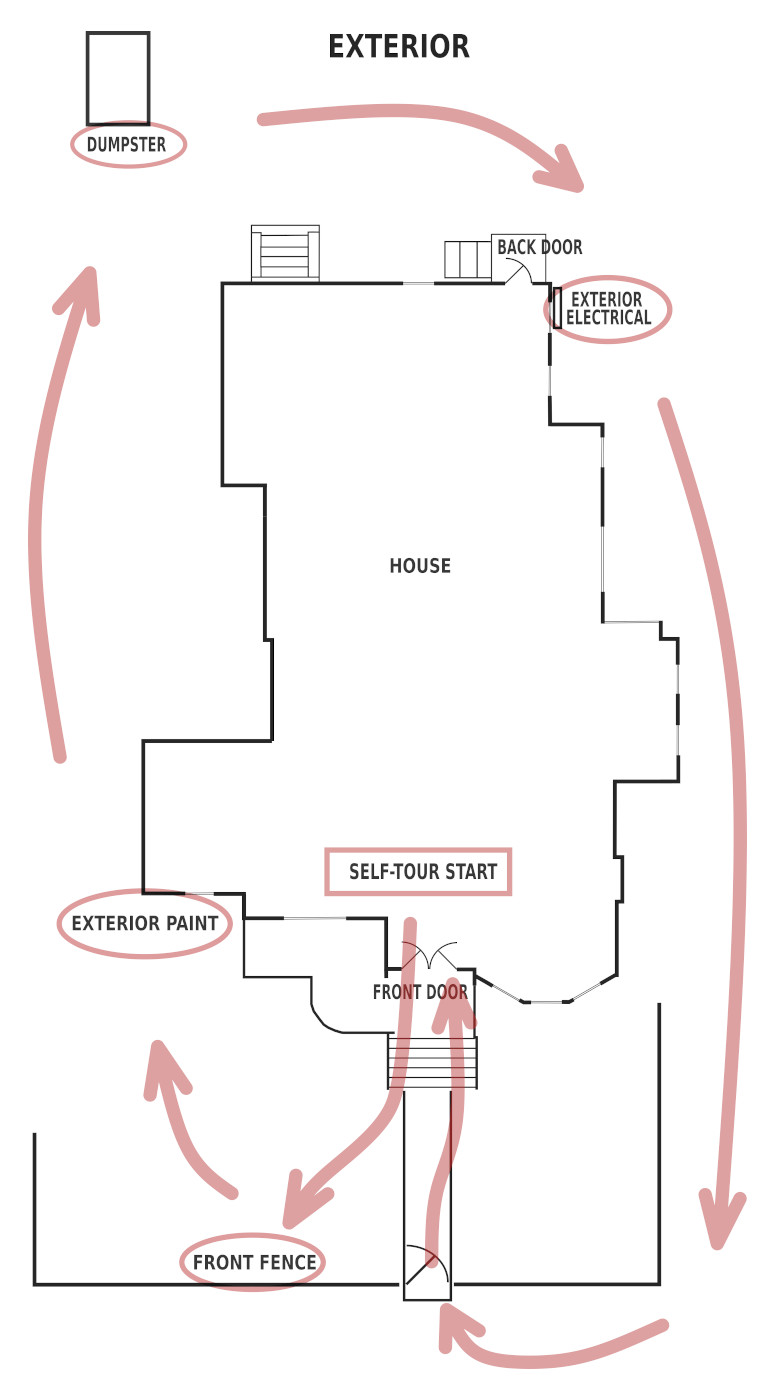
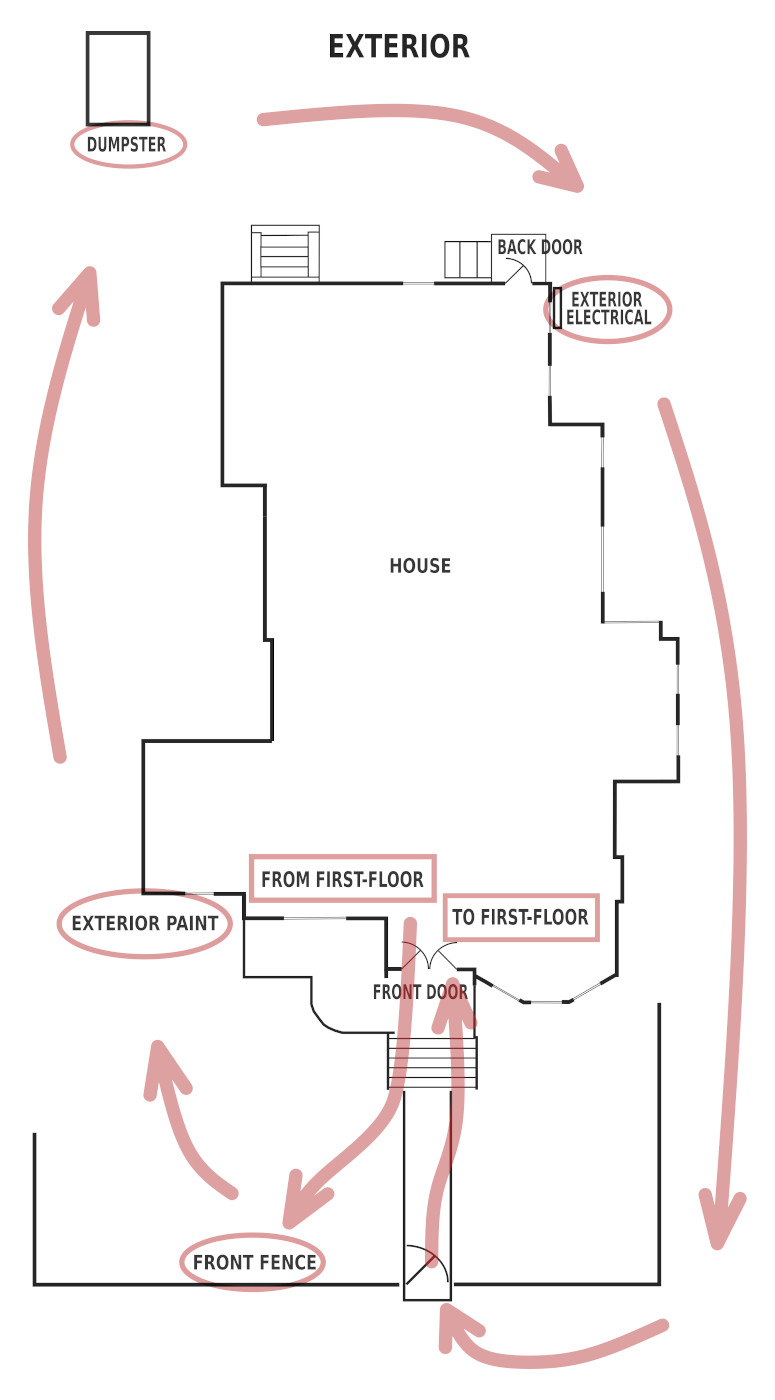
feat: more images for route page

Changed region(s): [[0.3097, 0.5836, 0.7742, 0.6757]]

diff --git a/docs/wayne_route.md b/docs/wayne_route.md
@@ -7,9 +7,9 @@ title: The "WAYNE" Route
 #video
 # comment: set this to false when we have some real pages working
 description: The "WAYNE" route is the "regular" tour route. Tour outside first, then the kitchen, basement, and end on third floor.
-images:
-  - src: /image/fence300.jpg
-    alt: front fence
+#images:
+#  - src: /image/fence300.jpg
+#    alt: front fence
 #extra:
 ---
 <div>
@@ -32,6 +32,15 @@ First Floor (Start here)
 </p>
 <p>
 <img src="image/drawing_basement_w.jpg" alt="basement map"  width=300 class="framed-image">
+</p>
+<p>
+<img src="image/drawing_firstfloor_w3.jpg" alt="first floor map"  width=300 class="framed-image">
+</p>
+<p>
+<img src="image/drawing_secondfloor_w1.jpg" alt="second floor map"  width=300 class="framed-image">
+</p>
+<p>
+<img src="image/drawing_thirdfloor_w1.jpg" alt="third floor map"  width=300 class="framed-image">
 </p>
 
 </div>
